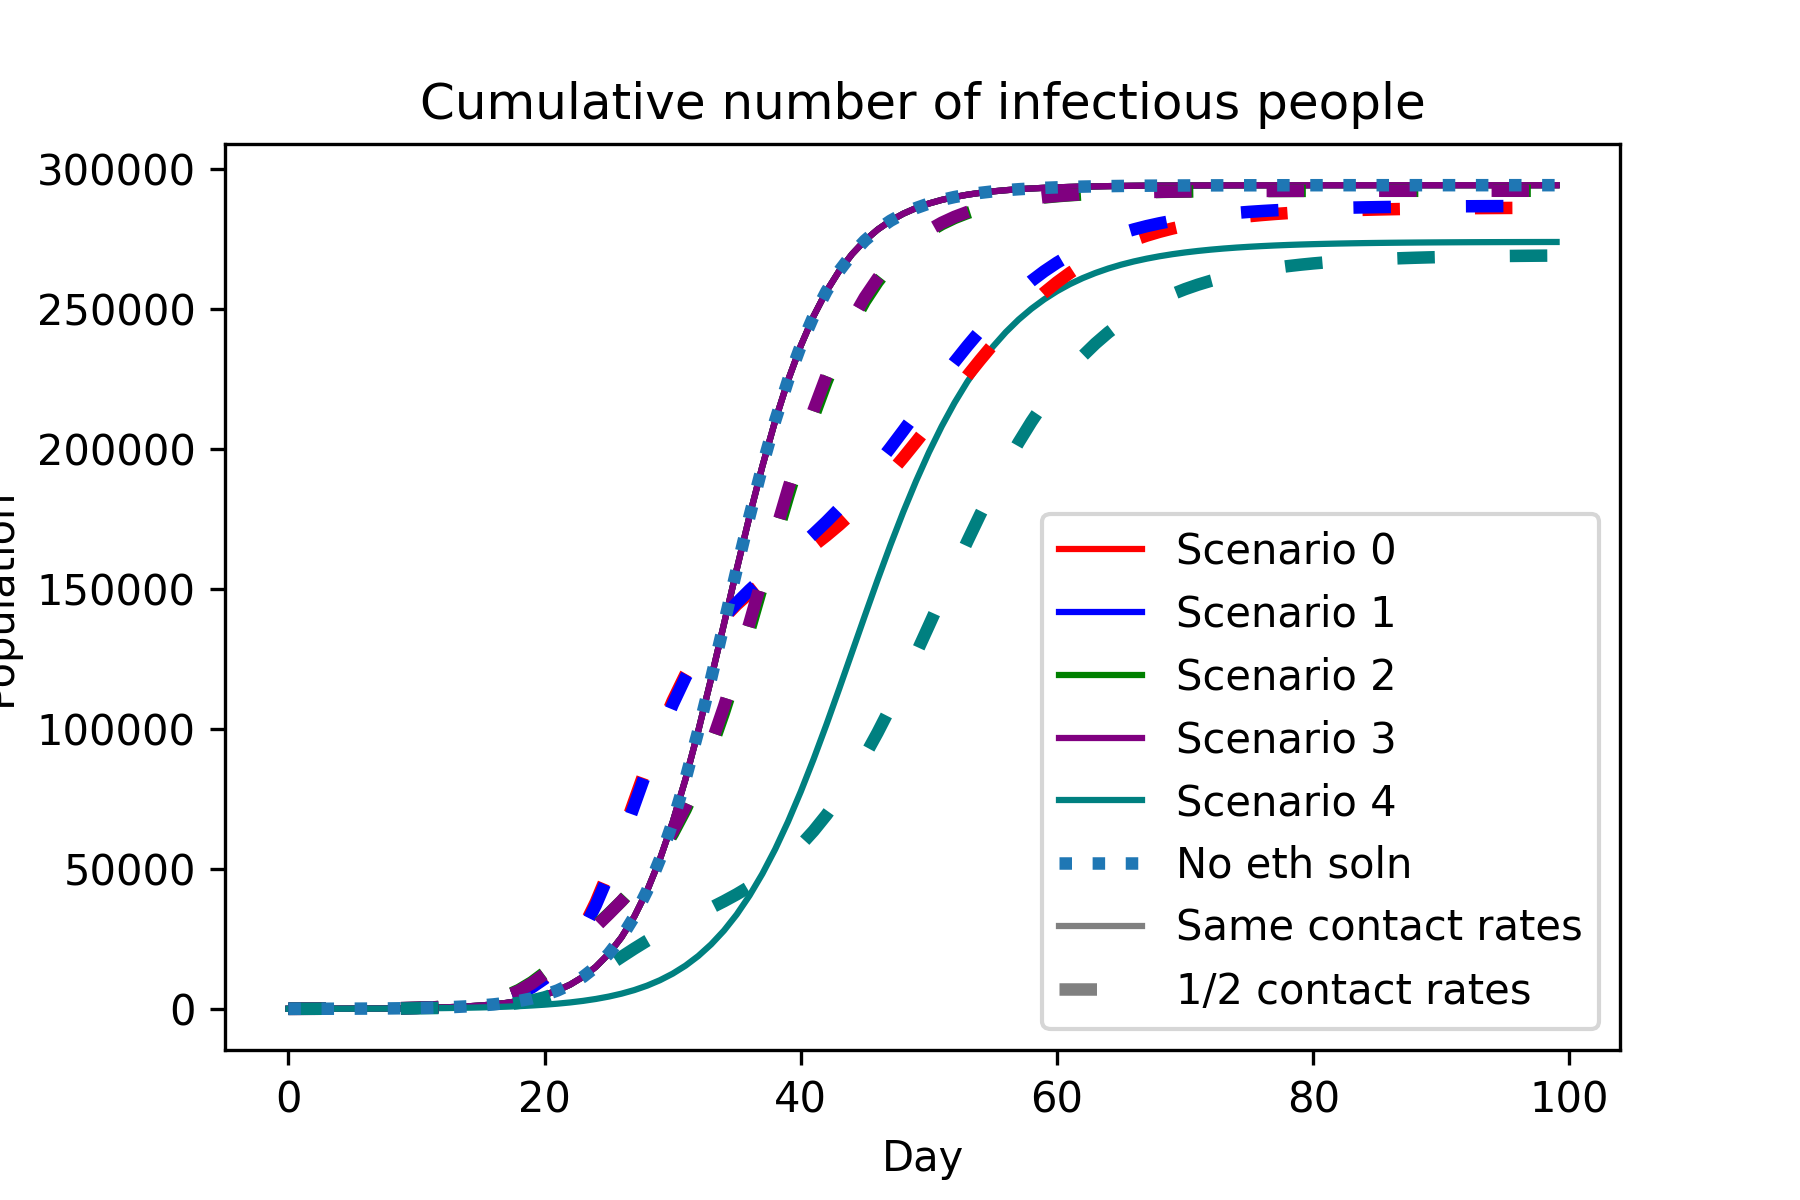
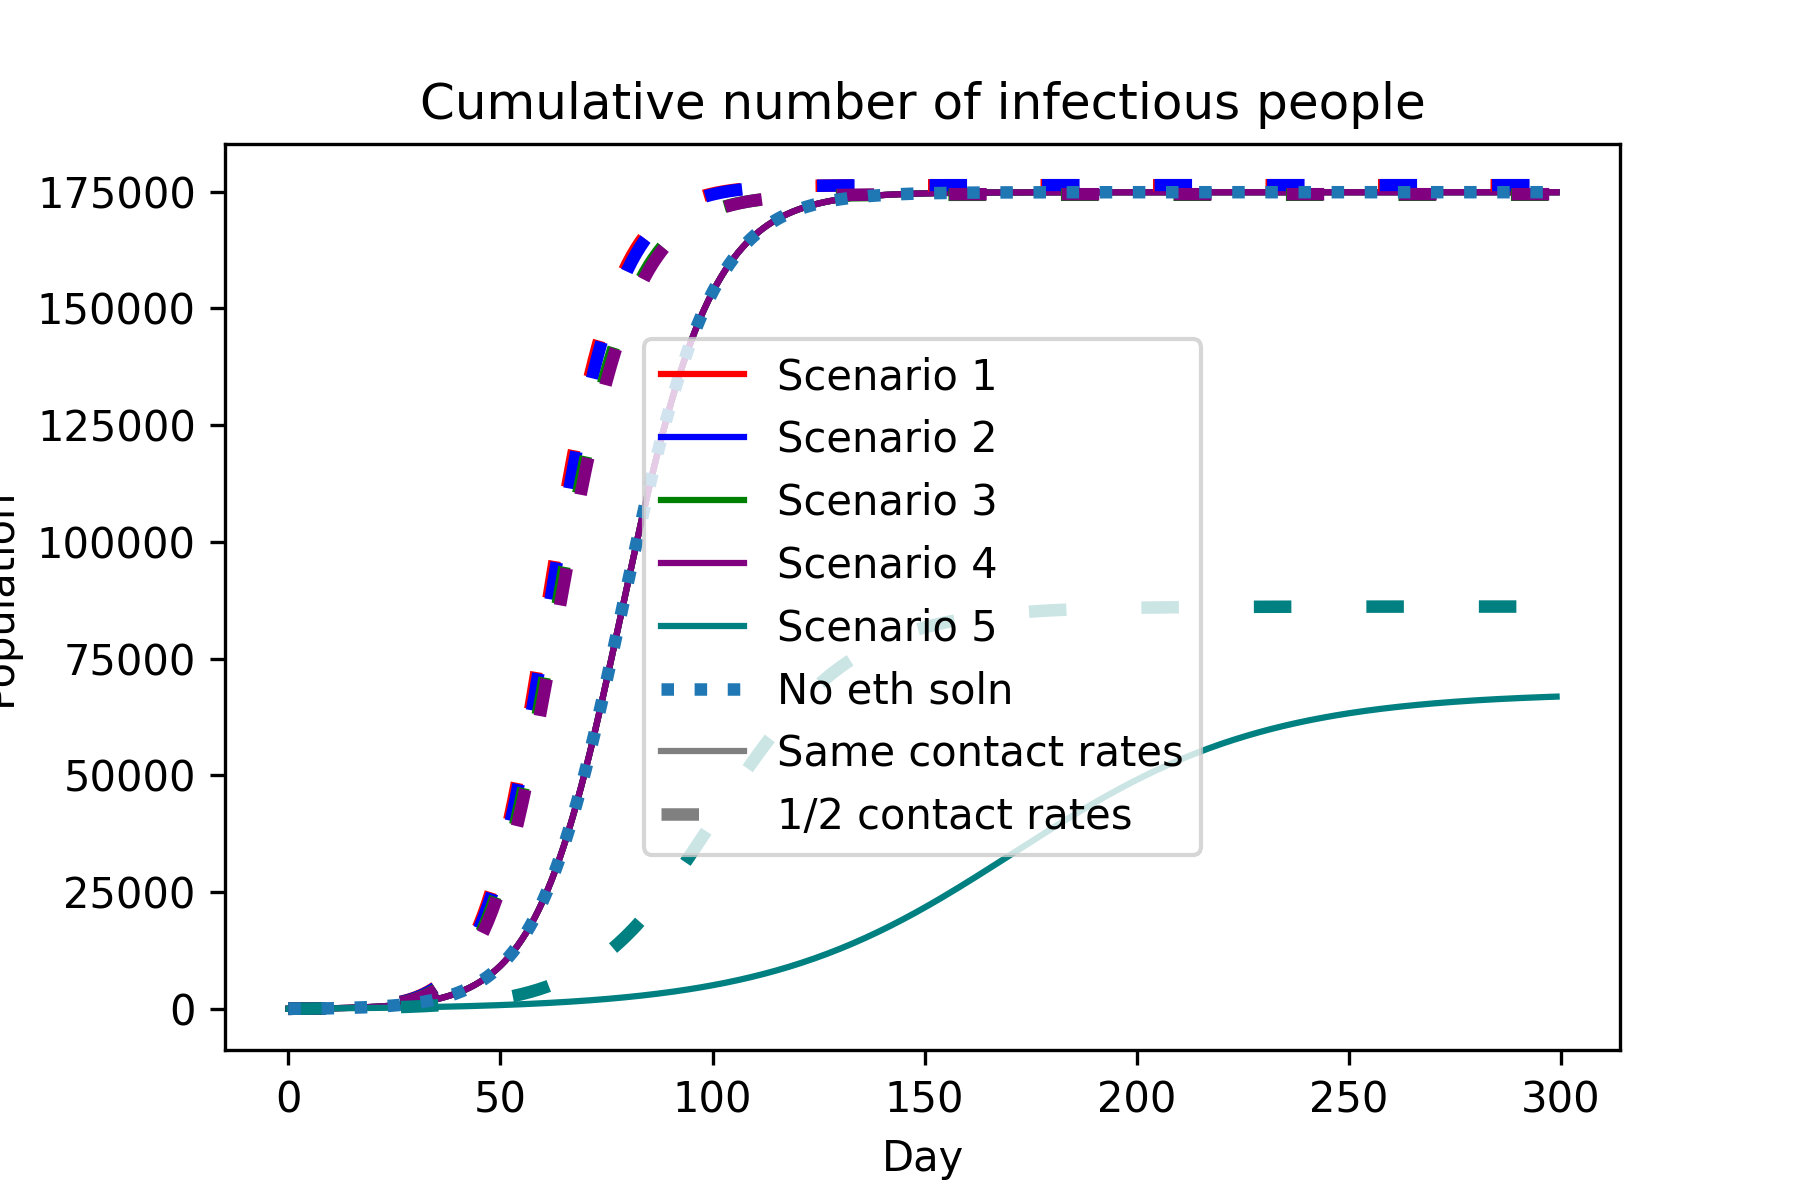
Update of plotting code
Added some parameter variation for the ratio of ethnic attack rates and plotting by averaging along various axes

diff --git a/numerical_analysis.py b/numerical_analysis.py
@@ -43,7 +43,11 @@ def legend_with_extra(solid_name,dashed_name, solid_line=None, dashed_line=None,
 num_ethnic_groups = 2
 num_age_groups =5
 
+epsilon = 0.3
+gamma = 2/3
 
+C_storage_prop = []
+C_storage_assort = []
 C_storage_list = []
 
 num_matrices = 10
@@ -65,10 +69,14 @@ for k in range(num_matrices):
     if k ==0:
         Cij = Cij_k.copy()
     
-    C_constructed = mfmm.return_C_matrix_assortative(Cij_k,F, N)
-    #C_constructed = mfmm.return_C_matrix_proportionate(Cij_k,F, N)
+    C_constructed_prop = mfmm.return_C_matrix_proportionate(Cij_k,F, N)
+    C_constructed_assort = mfmm.return_C_matrix_assortative(Cij_k,F, N)
+    C_constructed = mfmm.return_C_matrix(epsilon,Cij_k,F, N)
     
     C_storage_list.append(C_constructed)
+    
+    print(f'Reproductive Number {k}')
+    print(mfmm.initial_reproduction_number(mfmm.flatten_to_two_dim(C_constructed), gamma = gamma))
 
 
 ### Check that constraints on matrix are satisfied (only check last matrix constructed)
@@ -134,8 +142,8 @@ for k, C_matrix in enumerate(C_storage_list):
         
         
         sigma = 1/3 # Rate of disease development
-        gamma = 0.25 # Recovery rate
-        time = 100
+        #gamma = 0.25 # Recovery rate
+        time = 300
         
         solution = scipy.integrate.solve_ivp(mfmm.SEIR_model, [0,time], np.concatenate([S,Sv,E,I,R,In]), t_eval=np.arange(time+1), args = (beta_matrix, sigma, gamma))
         
@@ -154,7 +162,7 @@ solution = scipy.integrate.solve_ivp(mfmm.SEIR_model, [0,time], SEIR_0_age, t_ev
 #structure_labels = ['Flat age structure', 'different age structure, same group size', 'Flat age structure, different group size', 'different age structure and group size','different age structure and group size\n different age contact rates']
 structure_labels =[]
 for i in range(num_matrices//2):
-    structure_labels.append(f'Scenario {i}')
+    structure_labels.append(f'Scenario {i+1}')
 
 for p in range(3):
     S0,S1 = [(0,time),(35,45),(time-10,time+1)][p]
@@ -223,3 +231,127 @@ for k in range(num_matrices//2):
 legend_with_extra('Ethnic group 1', 'Ethnic group 2')
 plt.title("Cumulative proportion of infectious people in the youngest age group\n (Different ethnic contact rates)")
 
+
+
+
+
+### Change in relative contact rate
+# Using scenario 4/5
+
+N4,F,a4 = mfmm.scenario_parameters(3)
+N5,F,a5 = mfmm.scenario_parameters(4)
+
+c = 0.3
+Pij4 = np.zeros([num_age_groups,num_age_groups])
+for i in range(num_age_groups):
+    for j in range(num_age_groups):
+        Pij4[i,j] = (1-c)*a4[i]*a4[j]/np.sum(np.sum(N4,axis=1)*a4)
+        if i==j:
+            Pij4[i,j]+=c*a4[j]/np.sum(N4[j,:])
+        
+Cij4 = np.zeros([num_age_groups,num_age_groups])
+for j in range(num_age_groups):
+    Cij4[:,j] = Pij4[:,j] * np.sum(N4[j,:])
+
+c = 0.3
+Pij5 = np.zeros([num_age_groups,num_age_groups])
+for i in range(num_age_groups):
+    for j in range(num_age_groups):
+        Pij5[i,j] = (1-c)*a5[i]*a5[j]/np.sum(np.sum(N5,axis=1)*a5)
+        if i==j:
+            Pij5[i,j]+=c*a5[j]/np.sum(N5[j,:])
+        
+Cij5 = np.zeros([num_age_groups,num_age_groups])
+for j in range(num_age_groups):
+    Cij5[:,j] = Pij5[:,j] * np.sum(N5[j,:])
+
+# Want this to be odd to have zero in linspace - not required
+resolution = 41
+scen_4_F_var_attack_rates = np.zeros([1+num_age_groups+num_ethnic_groups+num_age_groups*num_ethnic_groups, resolution])
+scen_5_F_var_attack_rates = np.zeros([1+num_age_groups+num_ethnic_groups+num_age_groups*num_ethnic_groups, resolution])
+reproductive_numbers4 = np.zeros(resolution)
+reproductive_numbers5 = np.zeros(resolution)
+
+F_vals = 2**np.linspace(-5, 5, resolution)
+
+for k in range(resolution):
+    
+    F = np.array([F_vals[k],1])
+    
+    C_4 = mfmm.return_C_matrix(epsilon,Cij4,F, N4)
+    C_5 = mfmm.return_C_matrix(epsilon,Cij5,F, N5)
+    
+    reproductive_numbers4[k] = mfmm.initial_reproduction_number(mfmm.flatten_to_two_dim(C_4), gamma = gamma)
+    reproductive_numbers5[k] = mfmm.initial_reproduction_number(mfmm.flatten_to_two_dim(C_5), gamma = gamma)
+    
+    # Convert C to per capita
+    beta_matrix = mfmm.flatten_to_two_dim(C_4) / (N4.T).flatten()
+    solution = scipy.integrate.solve_ivp(mfmm.SEIR_model, [0,time], np.concatenate([S,Sv,E,I,R,In]), t_eval=np.arange(time+1), args = (beta_matrix, sigma, gamma))
+    scen_4_F_var_attack_rates[0,k] = np.sum(solution.y[50:,-1])/np.sum(N4)
+    scen_4_F_var_attack_rates[1,k] = np.sum(solution.y[50:55,-1])/np.sum(N4[:,0])
+    scen_4_F_var_attack_rates[2,k] = np.sum(solution.y[55:,-1])/np.sum(N4[:,1])
+    for i in range(num_age_groups):
+        scen_4_F_var_attack_rates[(3+i),k] = (solution.y[(50+i),-1]+solution.y[(55+i),-1])/np.sum(N4[i,:])
+    for i in range(num_age_groups*num_ethnic_groups):
+        scen_4_F_var_attack_rates[(8+i),k] = solution.y[(50+i),-1]/np.sum(N4[i%num_age_groups,i//num_age_groups])
+    
+    beta_matrix = mfmm.flatten_to_two_dim(C_5) / (N5.T).flatten()
+    solution = scipy.integrate.solve_ivp(mfmm.SEIR_model, [0,time], np.concatenate([S,Sv,E,I,R,In]), t_eval=np.arange(time+1), args = (beta_matrix, sigma, gamma))
+    scen_5_F_var_attack_rates[0,k] = np.sum(solution.y[50:,-1])/np.sum(N5)
+    scen_5_F_var_attack_rates[1,k] = np.sum(solution.y[50:55,-1])/np.sum(N5[:,0])
+    scen_5_F_var_attack_rates[2,k] = np.sum(solution.y[55:,-1])/np.sum(N5[:,1])
+    for i in range(num_age_groups):
+        scen_5_F_var_attack_rates[(3+i),k] = (solution.y[(50+i),-1]+solution.y[(55+i),-1])/np.sum(N5[i,:])
+    for i in range(num_age_groups*num_ethnic_groups):
+        scen_5_F_var_attack_rates[(8+i),k] = solution.y[(50+i),-1]/np.sum(N5[i%num_age_groups,i//num_age_groups])
+
+plt.figure()
+plt.title('Whole population')
+plt.plot(F_vals,scen_4_F_var_attack_rates[0,:], label="Scenario 4")
+plt.plot(F_vals,scen_5_F_var_attack_rates[0,:], label="Scenario 5")
+plt.legend()
+plt.xscale('log')
+plt.ylabel('Attack rate')
+plt.xlabel('Ratio of ethnic contact rates (F1/F2)')
+
+fig, axes = plt.subplots(1,num_ethnic_groups,figsize=(12, 4))
+for i in range(num_ethnic_groups):
+    axes[i].set_title(f'Ethnic group {i+1}')
+    axes[i].plot(F_vals,scen_4_F_var_attack_rates[(1+i),:], label="Scenario 4")
+    axes[i].plot(F_vals,scen_5_F_var_attack_rates[(1+i),:], label="Scenario 5")
+    axes[i].legend()
+    axes[i].set_xscale('log')
+    axes[i].set_ylabel('Attack rate')
+    axes[i].set_xlabel('Ratio of ethnic contact rates (F1/F2)')
+    
+fig, axes = plt.subplots(1,num_age_groups,figsize=(30, 4))
+for i in range(num_age_groups):
+    axes[i].set_title(f'Age group {i+1}')
+    axes[i].plot(F_vals,scen_4_F_var_attack_rates[(3+i),:], label="Scenario 4")
+    axes[i].plot(F_vals,scen_5_F_var_attack_rates[(3+i),:], label="Scenario 5")
+    axes[i].legend()
+    axes[i].set_xscale('log')
+    axes[i].set_ylabel('Attack rate')
+    axes[i].set_xlabel('Ratio of ethnic contact rates (F1/F2)')
+
+fig, axes = plt.subplots(num_ethnic_groups,num_age_groups,figsize=(30, 10))
+axes = axes.flatten()
+for i in range(num_age_groups*num_ethnic_groups):
+    axes[i].set_title(f'Age group {i%5+1}, Ethnic group[i//2+1]')
+    axes[i].plot(F_vals,scen_4_F_var_attack_rates[(8+i),:], label="Scenario 4")
+    axes[i].plot(F_vals,scen_5_F_var_attack_rates[(8+i),:], label="Scenario 5")
+    axes[i].legend()
+    axes[i].set_xscale('log')
+    axes[i].set_ylabel('Attack rate')
+    axes[i].set_xlabel('Ratio of ethnic contact rates (F1/F2)')
+    
+plt.tight_layout()
+
+plt.figure()
+plt.title('Whole population')
+plt.plot(F_vals,reproductive_numbers4, label="Scenario 4")
+plt.plot(F_vals,reproductive_numbers5, label="Scenario 5")
+plt.legend()
+plt.xscale('log')
+plt.ylabel('Basic Reproductive Number')
+plt.xlabel('Ratio of ethnic contact rates (F1/F2)')

diff --git a/multi_factor_matrix_modules/modules.py b/multi_factor_matrix_modules/modules.py
@@ -156,6 +156,33 @@ def initial_group_populations(pop_vec,is_vacc,pop_vec_vacc=np.array([]),initial_
 
 
 
+def initial_reproduction_number(C = None, P = None,N_vec_vacc=None,N_vec = None, gamma=-1):
+    
+    if P is None and C is None:
+        raise Exception("Provide either a per capita contact matrix (P) or a contact matrix (C)")
+    elif C is None and N_vec is None:
+        raise Exception("If providing a per capita matrix, a population vector is needed")
+    elif gamma == -1:
+        raise Exception("Provide a value for gamma")
+    
+    if C is None:
+        C = np.zeros(np.shape(P))
+        for j in range(len(N_vec)):
+            C[:,j] = P[:,j] * N_vec[j]
+    
+    beta_pop_matrix = C/gamma
+            
+        
+    # F_Vinv = np.zeros([8,8])
+    # F_Vinv[0:4,0:4] = beta_pop_matrix
+    # F_Vinv[0:4,4:] = beta_pop_matrix
+    
+    eigs = np.linalg.eigvals(beta_pop_matrix)
+    
+    return max(abs(eigs))
+    
+
+
 def population_examples(k):
     
     if k==4:

diff --git a/Simplistic SEIR practice model.py b/Simplistic SEIR practice model.py
@@ -1,0 +1,29 @@
+# -*- coding: utf-8 -*-
+"""
+Created on Thu Sep 25 13:13:45 2025
+
+@author: Vincent Lomas
+"""
+
+import multi_factor_matrix_modules.modules as mfmm
+import numpy as np
+import scipy
+import matplotlib.pyplot as plt
+
+def sim_SEIR(t,SI):
+    S,I = SI
+    dS = -R0*S*I/N
+    dI = R0*S*I/N - I
+    
+    return (dS,dI)
+
+R0 = 1
+I0_prop = 0.0001
+N = 100
+t_max = 400
+
+SI0 = np.array([N*(1-I0_prop),N*I0_prop])
+
+solution = scipy.integrate.solve_ivp(sim_SEIR,[0,t_max],SI0,t_eval=np.arange(0,t_max))
+
+plt.plot(N-solution.y[0,:])
